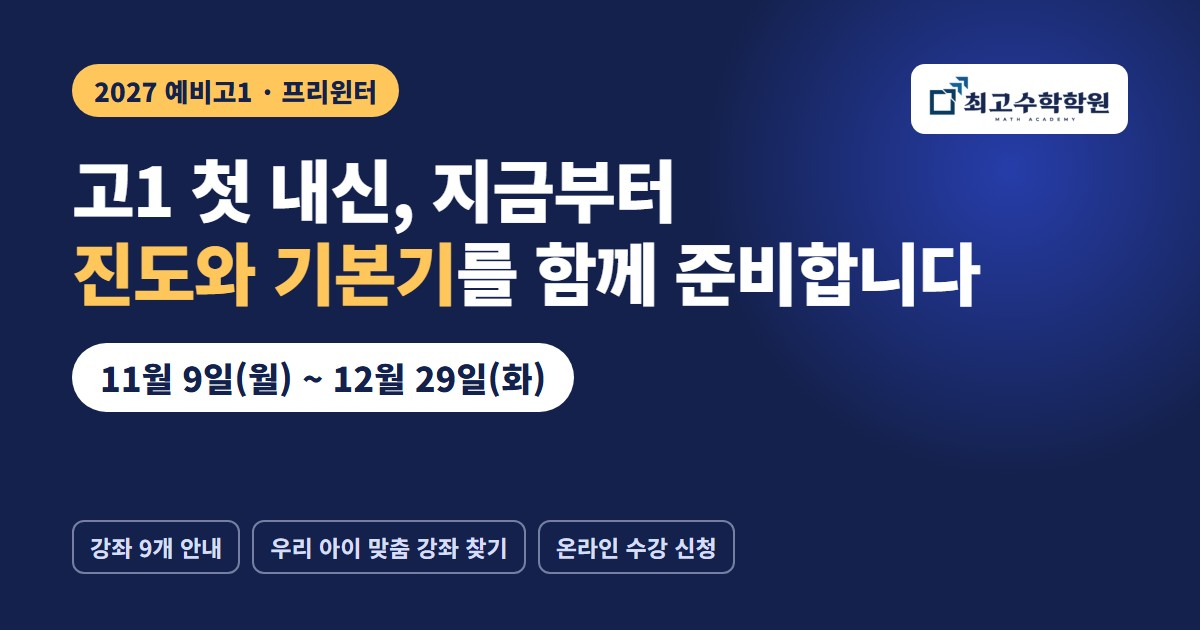
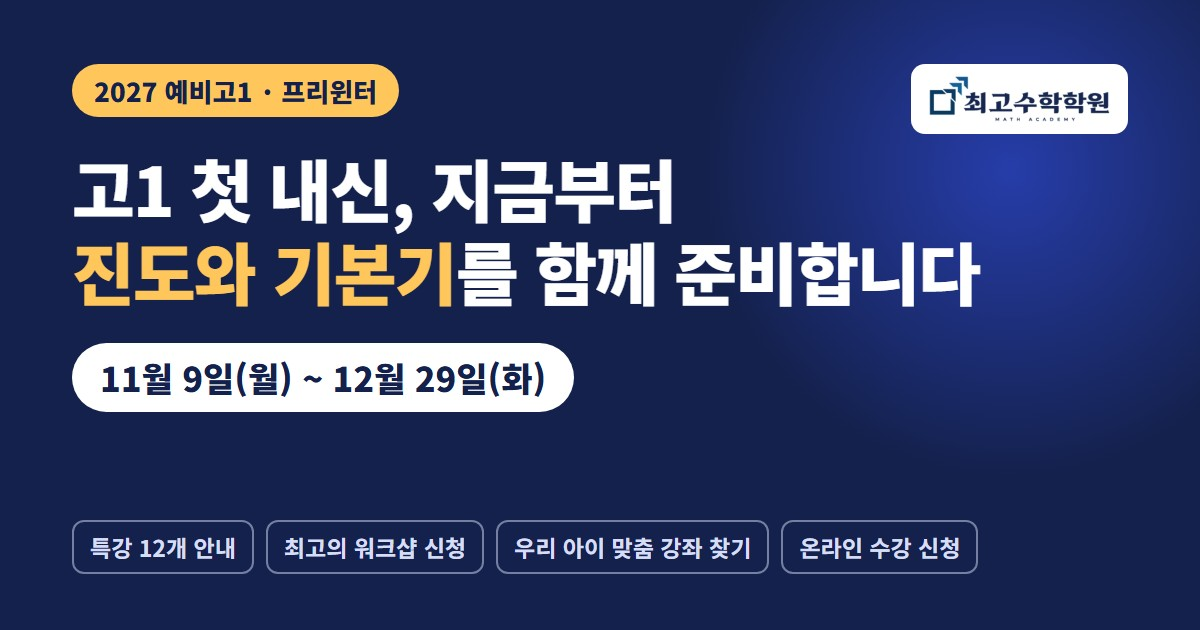
프리윈터: 썸네일(OG) 갱신 — 특강 12개·워크샵

Changed region(s): [[0.0617, 0.8143, 0.8017, 0.9349]]

diff --git a/prewinter/index.html b/prewinter/index.html
@@ -9,7 +9,7 @@
 <meta property="og:title" content="2027 예비고1 프리윈터 · 강좌 안내와 수강 신청">
 <meta property="og:description" content="11/9(월)~12/29(화) · 공통수학1, 대수, 미적분1, 확통 강좌 12개 · 송도 최고수학학원">
 <meta property="og:url" content="https://best-eight-gold.vercel.app/prewinter/">
-<meta property="og:image" content="https://best-eight-gold.vercel.app/prewinter/og.jpg">
+<meta property="og:image" content="https://best-eight-gold.vercel.app/prewinter/og.jpg?v=20261021">
 <meta property="og:image:width" content="1200">
 <meta property="og:image:height" content="630">
 <meta name="twitter:card" content="summary_large_image">
